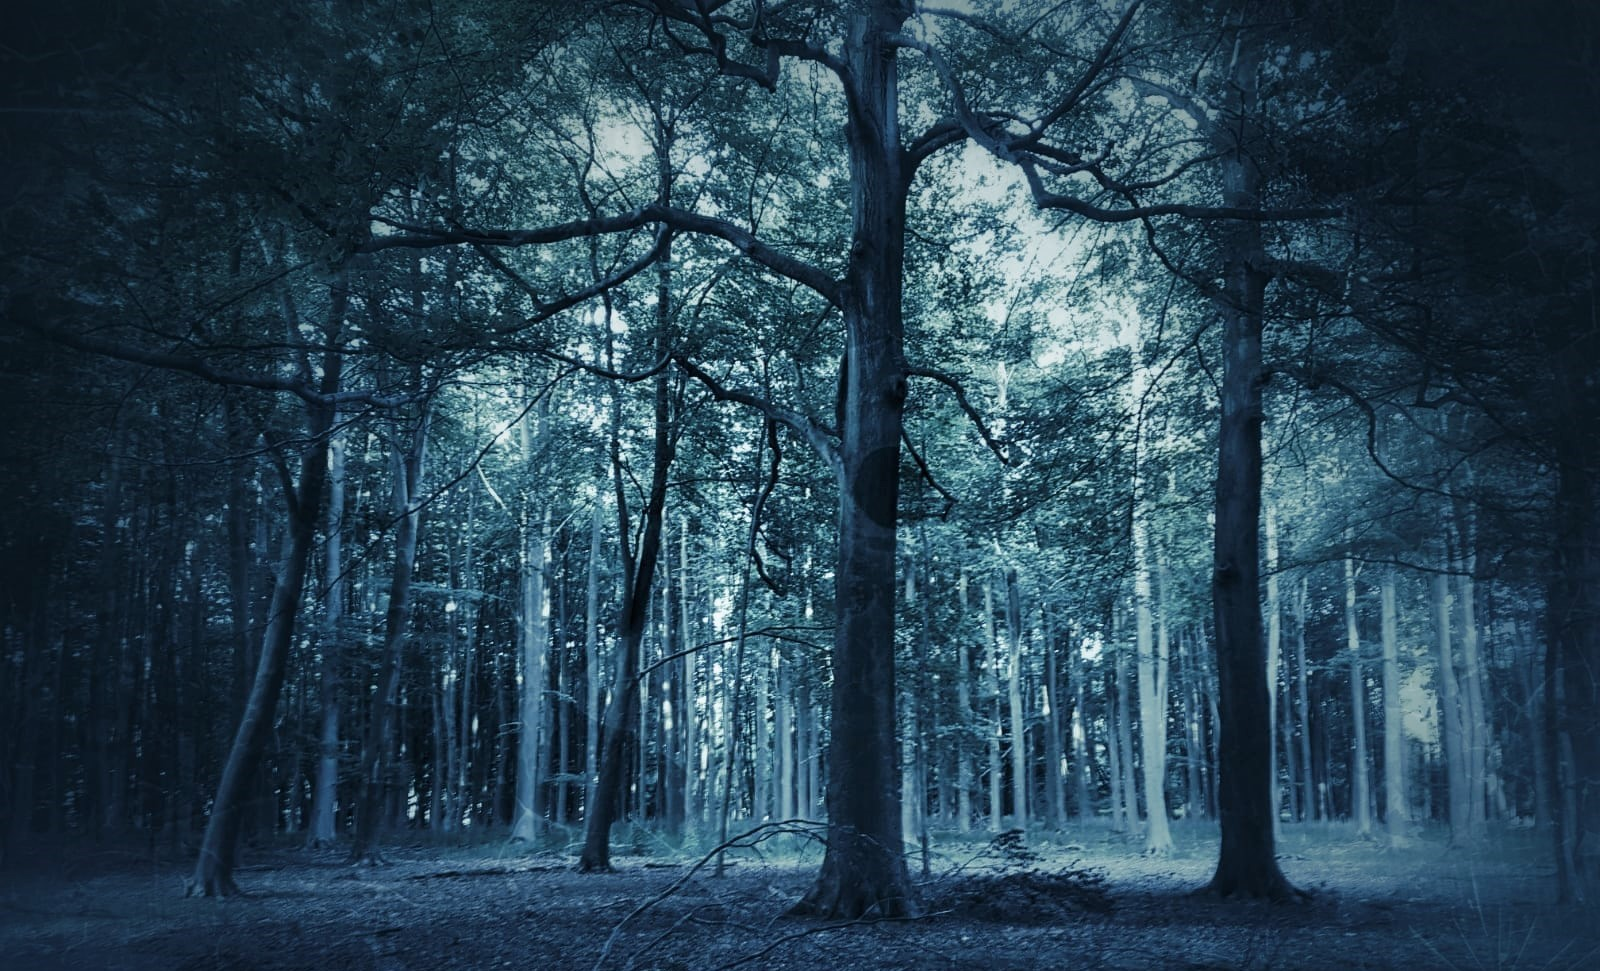
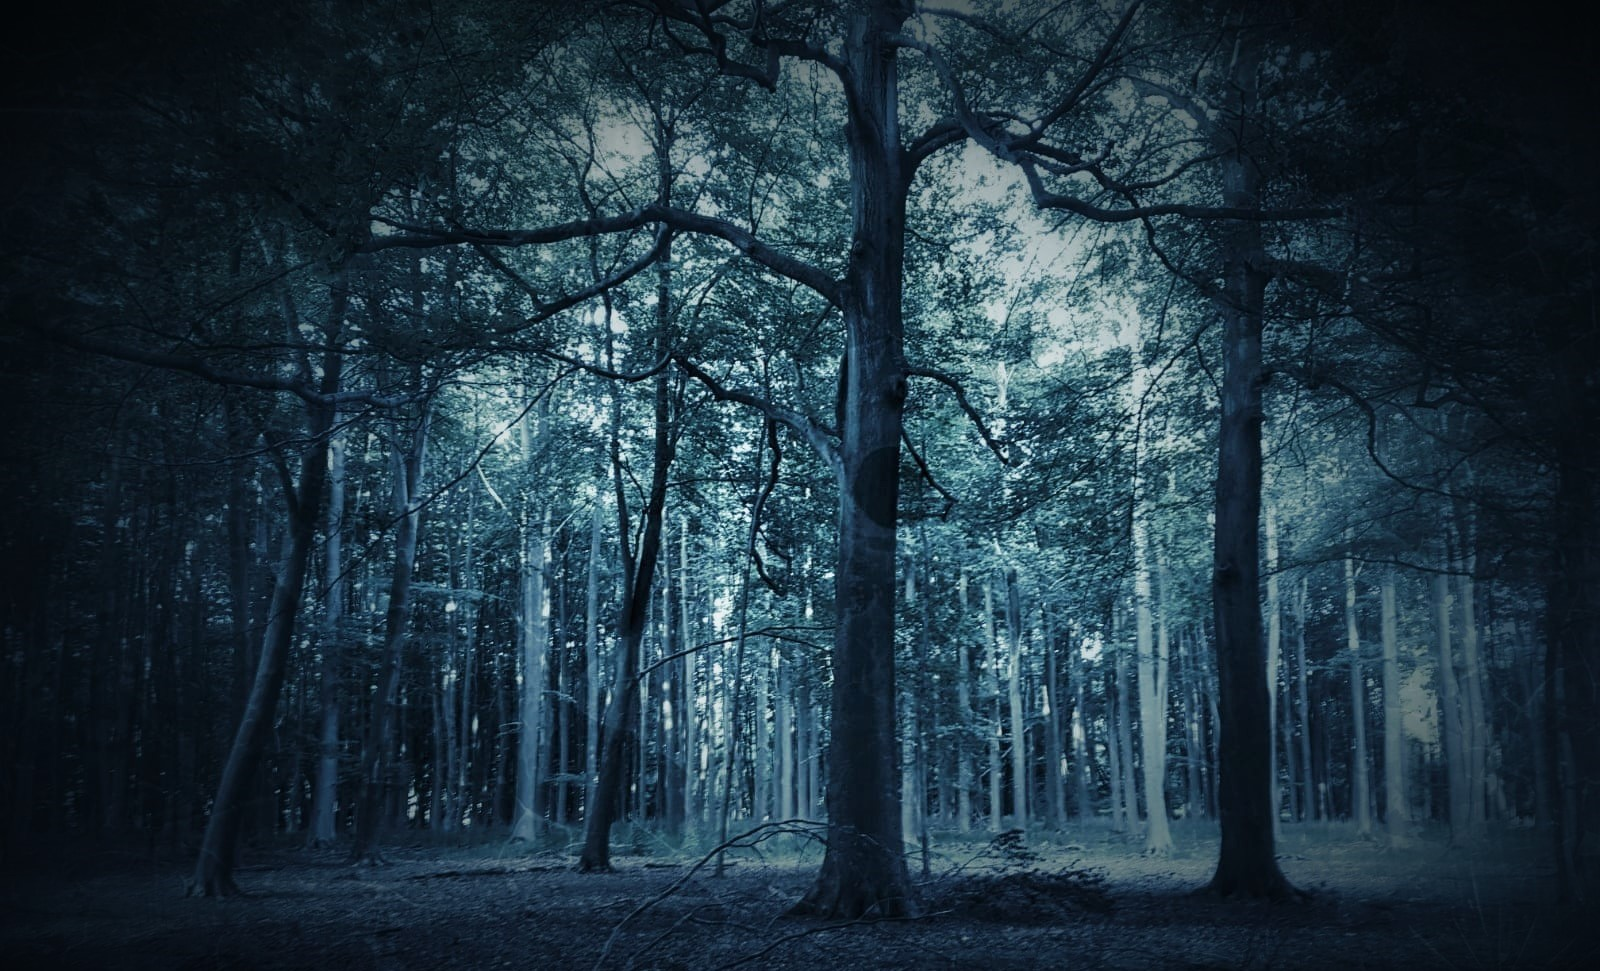
easing in the background image

diff --git a/src/components/background.js b/src/components/background.js
@@ -24,15 +24,14 @@ const Title = styled.div`
   letter-spacing: 0.1em;
   position: absolute;
   left: 19%;
-  top: 13%;
+  top: 14%;
   text-transform: uppercase;
-  line-height: 1;
-  z-index: 8;
+  z-index: 4;
   -webkit-text-fill-color: transparent;
   -webkit-text-stroke-width: 0.5px;
   -webkit-text-stroke-color: white;
   text-shadow: 2px 2px #d22d4c, 4px 4px #1e1c3c;
-  animation: ${turnVisible} 0.6s ease-in;
+  animation: ${turnVisible} 2.4s ease-in;
 `
 const Card = styled.div`
   margin-top: 4%;
@@ -108,7 +107,7 @@ const Icon = styled.a`
   }
 `
 const StyledBackground = styled(BackgroundImage)`
-  width: 100%;
+  width: 100vw;
   height: 100vh;
   background-attachment: fixed;
   -webkit-background-attachment: fixed;
@@ -124,13 +123,14 @@ const StyledBackground = styled(BackgroundImage)`
   -webkit-box-shadow: inset 10px 10px 93px 0px rgba(0, 0, 0, 0.95);
   -moz-box-shadow: inset 10px 10px 93px 0px rgba(0, 0, 0, 0.95);
   box-shadow: inset 10px 10px 93px 0px rgba(0, 0, 0, 0.95);
+  animation: ${turnVisible} 1.8s ease-in;
 `
 
 const BackgroundSection = ({ className }) => (
   <StaticQuery
     query={graphql`
       query {
-        desktop: file(relativePath: { eq: "hello.jpg" }) {
+        desktop: file(relativePath: { eq: "index.jpg" }) {
           childImageSharp {
             fluid(quality: 90, maxWidth: 1920) {
               ...GatsbyImageSharpFluid_withWebp
@@ -150,7 +150,6 @@ const BackgroundSection = ({ className }) => (
             fluid={imageData}
             alt="Forest with noir feeling."
           >
-            {" "}
           </StyledBackground>
           <Title>Midweek Murders</Title>
           <Card>
